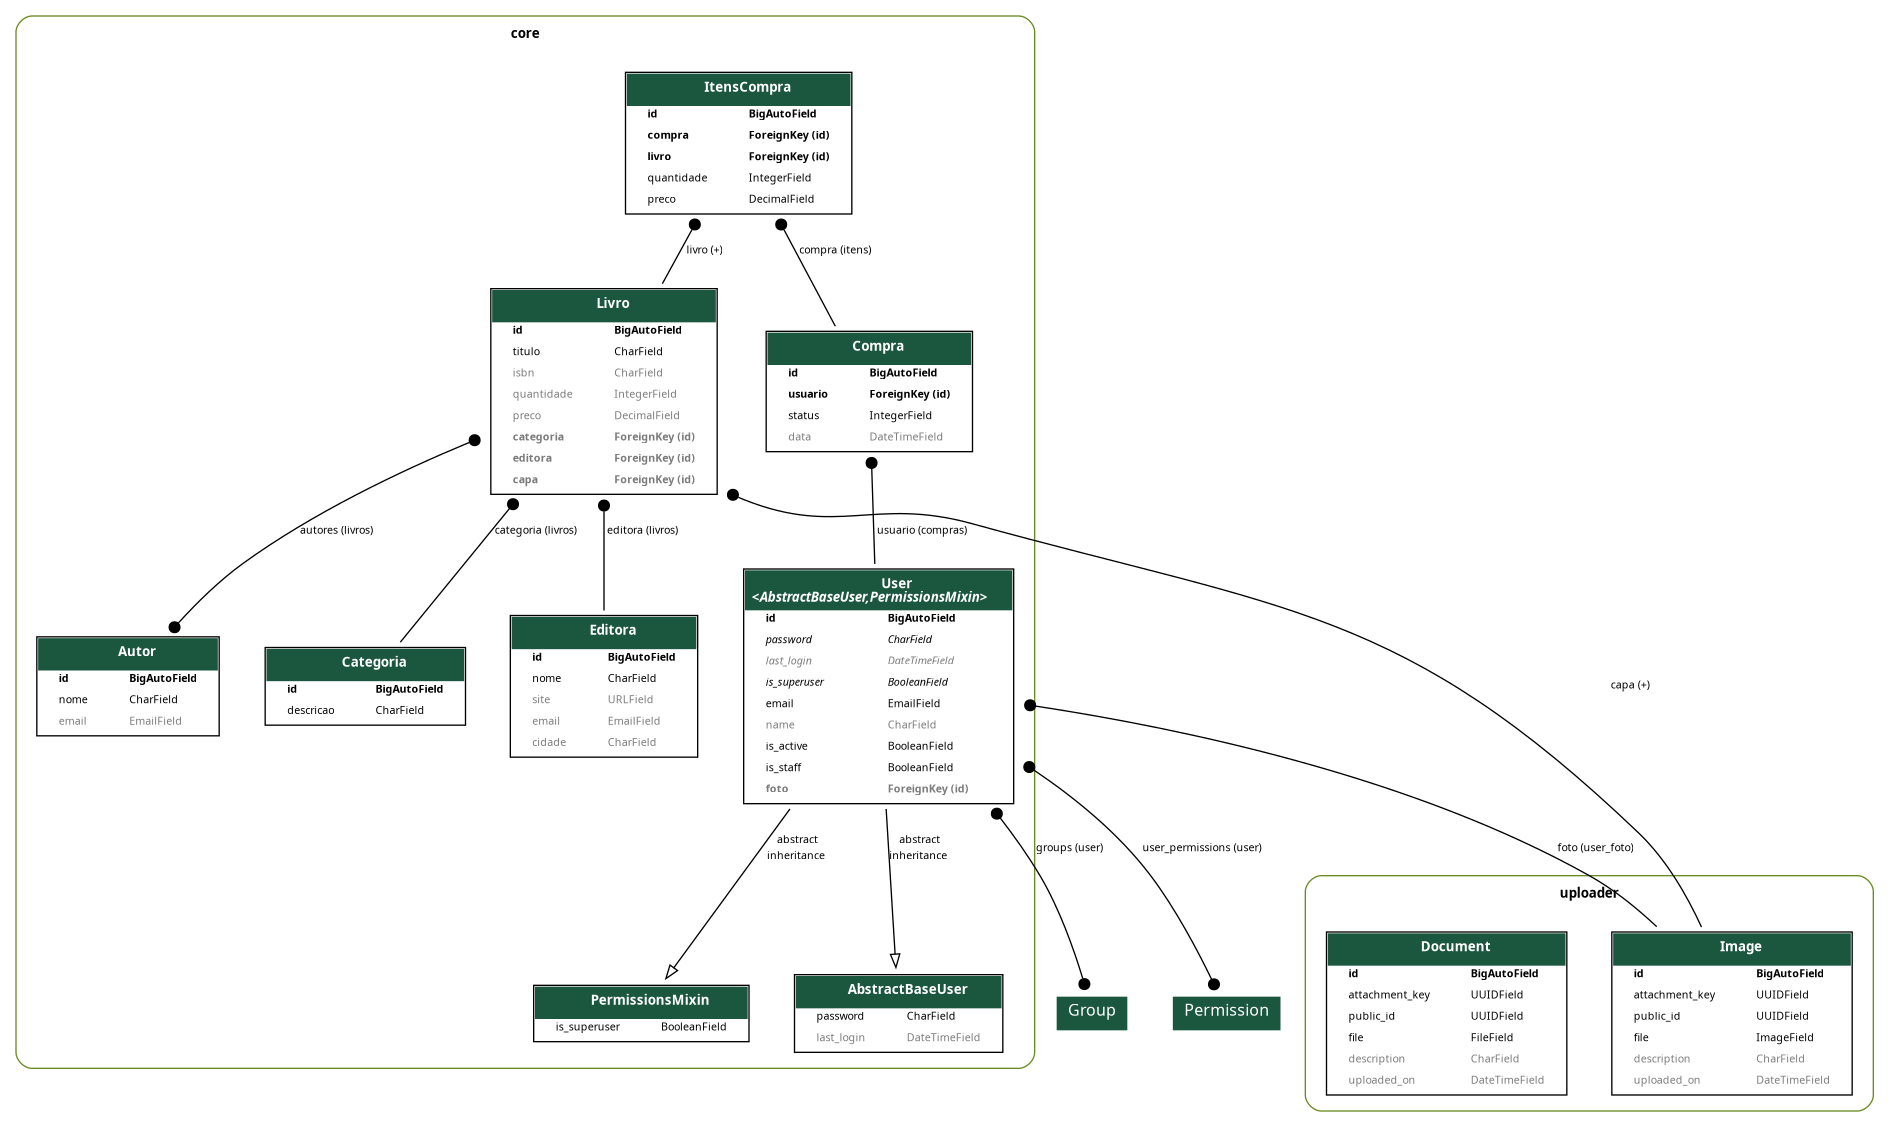
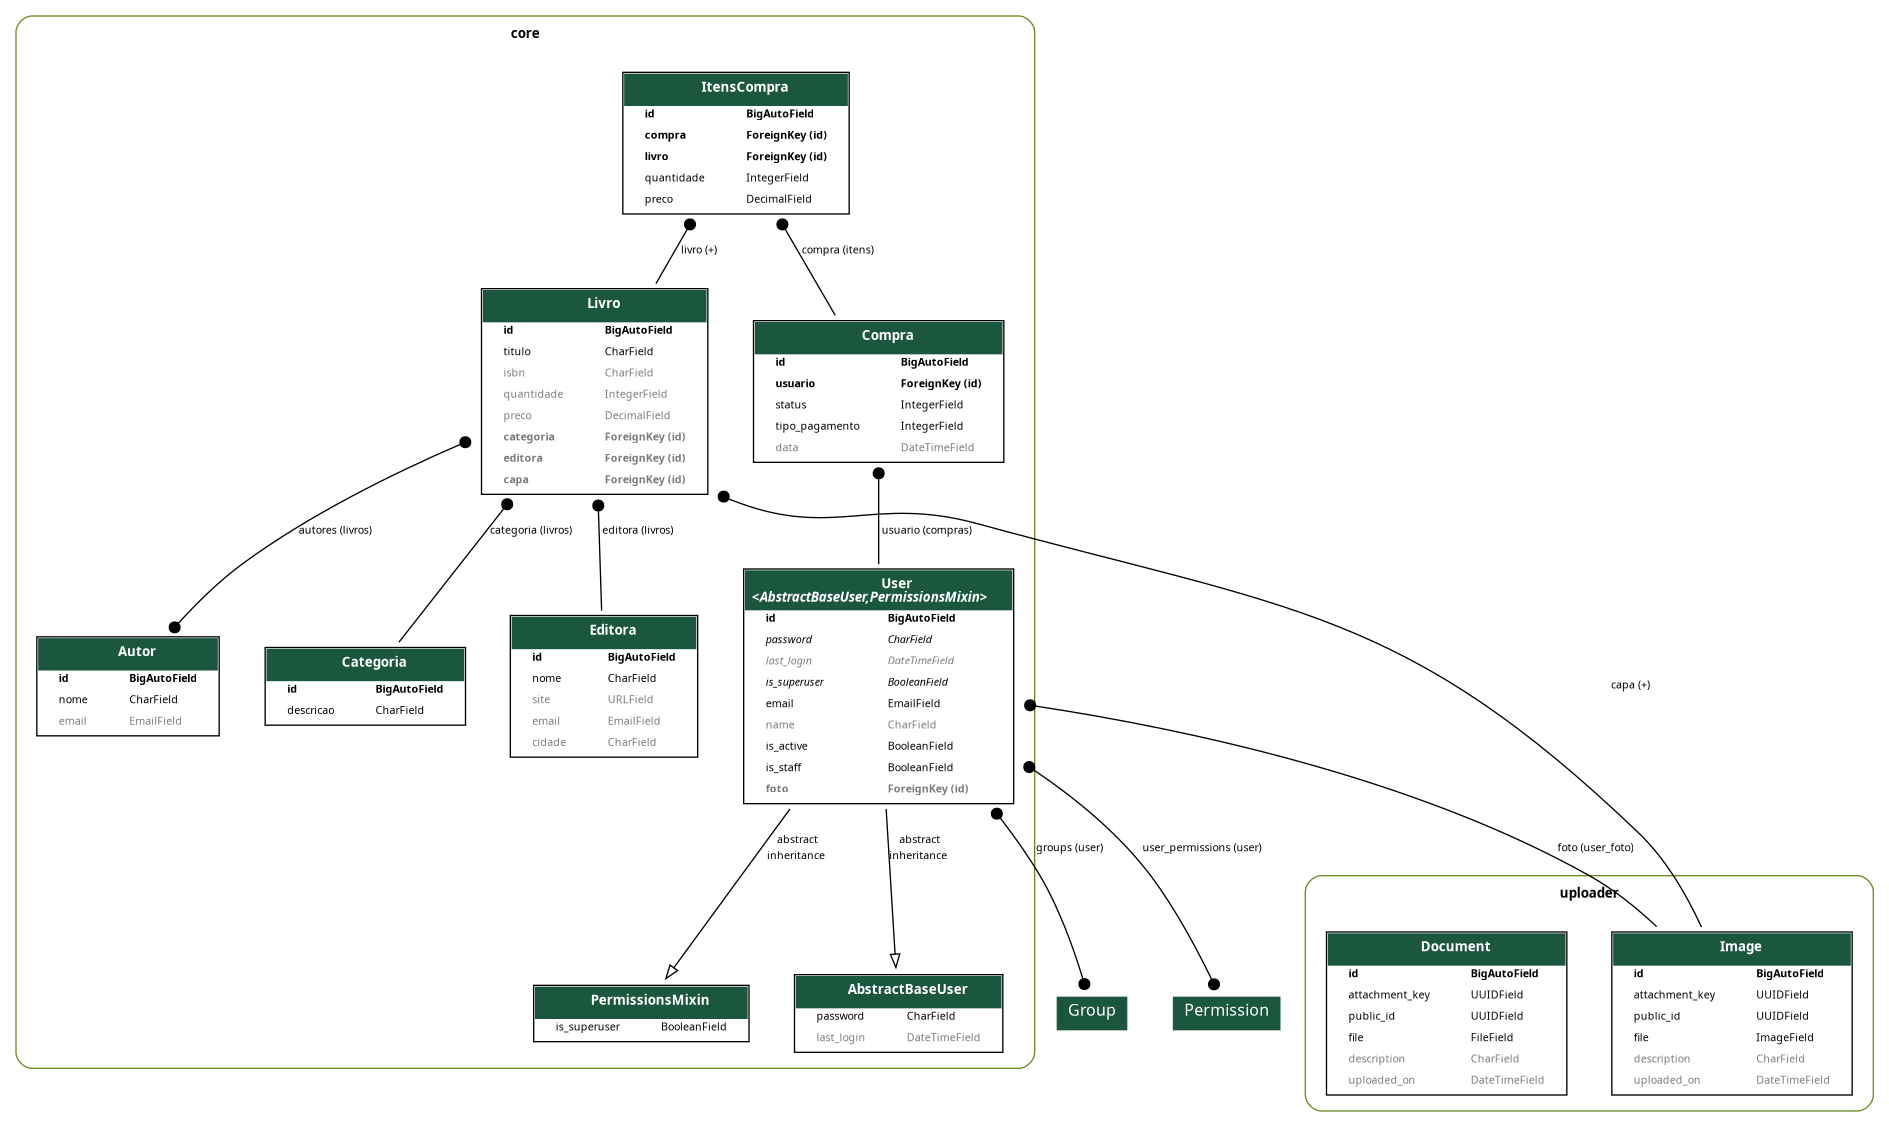
feat(aula 34): adicionando tipo de pagamento à entidade de Compra

diff --git a/core/models/compra.py b/core/models/compra.py
@@ -11,8 +11,24 @@ class Compra(models.Model):
         PAGO = 3, 'Pago'
         ENTREGUE = 4, 'Entregue'
 
+    class TipoPagamento(models.IntegerChoices):
+        CARTAO_CREDITO = 1, 'Cartão de Crédito'
+        CARTAO_DEBITO = 2, 'Cartão de Débito'
+        PIX = 3, 'PIX'
+        BOLETO = 4, 'Boleto'
+        TRANSFERENCIA_BANCARIA = 5, 'Transferência Bancária'
+        DINHEIRO = 6, 'Dinheiro'
+        OUTRO = 7, 'Outro'
+
     usuario = models.ForeignKey(User, on_delete=models.PROTECT, related_name='compras')
-    status = models.IntegerField(choices=StatusCompra.choices, default=StatusCompra.CARRINHO)
+    status = models.IntegerField(
+        choices=StatusCompra.choices,
+        default=StatusCompra.CARRINHO
+    )
+    tipo_pagamento = models.IntegerField(
+        choices=TipoPagamento.choices,
+        default=TipoPagamento.PIX
+    )
     data = models.DateTimeField(auto_now_add=True)
 
     @property

diff --git a/core/serializers/compra.py b/core/serializers/compra.py
@@ -98,9 +98,10 @@ class CompraListSerializer(ModelSerializer):
 class CompraSerializer(ModelSerializer):
     usuario = CharField(source='usuario.email', read_only=True)
     status = CharField(source='get_status_display', read_only=True)
+    tipo_pagamento = CharField(source='get_tipo_pagamento_display', read_only=True)
     data = DateTimeField(read_only=True)
     itens = ItensCompraSerializer(many=True, read_only=True)
 
     class Meta:
         model = Compra
-        fields = ('id', 'usuario', 'status', 'total', 'data', 'itens')
+        fields = ('id', 'usuario', 'status', 'tipo_pagamento', 'total', 'data', 'itens')

diff --git a/core/migrations/0018_compra_tipo_pagamento.py b/core/migrations/0018_compra_tipo_pagamento.py
@@ -1,0 +1,18 @@
+# Generated by Django 5.2.13 on 2026-09-08 12:03
+
+from django.db import migrations, models
+
+
+class Migration(migrations.Migration):
+
+    dependencies = [
+        ('core', '0017_compra_data'),
+    ]
+
+    operations = [
+        migrations.AddField(
+            model_name='compra',
+            name='tipo_pagamento',
+            field=models.IntegerField(choices=[(1, 'Cartão de Crédito'), (2, 'Cartão de Débito'), (3, 'PIX'), (4, 'Boleto'), (5, 'Transferência Bancária'), (6, 'Dinheiro'), (7, 'Outro')], default=3),
+        ),
+    ]
